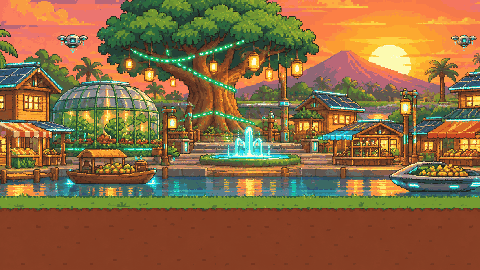
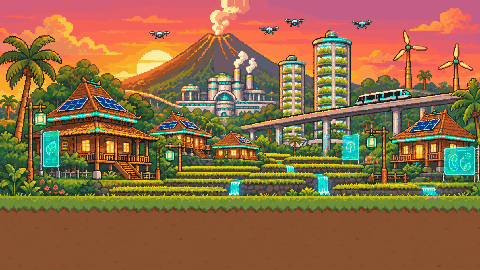
Dusk backdrop: Ardian's redraw of the same village at dusk, aligned to the day image
- docs/art-source/bg-dusk.png replaced by the new 1672x941 image (the day village turned into dusk).
- The AI drew it about 3% smaller; tools/pixelize/align.py stretches the whole picture once to
  match the day image (nothing cropped or pasted): houses, towers, terraces and the grass line line
  up (first soil row 105 / 209 in both grids). Converted on the same grids as day / night.
- Lanterns, holograms, waterfalls and smoke now stay visible at dusk (same village); the dusk
  sky colour and the sunset glow follow the new image; the day sun sinks towards the setting sun.
- ?time= also takes a village hour (e.g. 16.5) in dev builds, to check the fades.

diff --git a/web/src/art/backdrop.tsx b/web/src/art/backdrop.tsx
@@ -1,6 +1,6 @@
 // Garden backdrop: the Solarpunk village of Tandur from three AI images (ChatGPT,
 // made at Ardian's request, see docs/ASSETS.md), pixelized to 240x135 with
-// tools/pixelize. Day, dusk (the market square at sunset) and night are stacked and
+// tools/pixelize. Day, dusk and night (the same village, aligned) are stacked and
 // cross-faded from the village clock (dawn gets a warm tint); the living sky
 // (sun, clouds, birds, stars, meteors, a rare UFO, fireflies) is in sky.tsx. Small code-drawn
 // animations sit on top: passing drones, blinking drone LEDs, lanterns and
@@ -53,9 +53,13 @@ export const TIME_LOCK: Record<string, number> = {
   night: (23 - 7) / 24,
 };
 
+/** ?time=day / dusk / night, or a village hour such as ?time=16.5 (mid fade from day to dusk). */
 export function lockedFraction(search: string): number | null {
   const t = new URLSearchParams(search).get('time');
-  return t && t in TIME_LOCK ? TIME_LOCK[t] : null;
+  if (!t) return null;
+  if (t in TIME_LOCK) return TIME_LOCK[t];
+  const hour = Number(t);
+  return Number.isFinite(hour) && hour >= 0 && hour < 24 ? (((hour - 7 + 24) % 24) / 24) : null;
 }
 
 /** Absolute position of a box given in art pixels. */
@@ -116,8 +120,6 @@ export function Backdrop({ fraction, blurFill = false, hd = false }: { fraction:
     '--night': night.toFixed(3),
     '--dusk': dusk.toFixed(3),
     '--day': Math.max(0, 1 - night - dusk).toFixed(3),
-    // The village effects below sit on the day/night drawing: hidden while the dusk image shows.
-    '--village': (1 - dusk * (1 - night)).toFixed(3),
     '--tint': tint.toFixed(3),
   };
 
@@ -144,7 +146,7 @@ export function Backdrop({ fraction, blurFill = false, hd = false }: { fraction:
         <img class="bg-img bg-img-dusk" src={duskSrc} alt="" />
         <img class="bg-img bg-img-night" src={nightSrc} alt="" />
 
-        <div class="bg-fx bg-fx-village">
+        <div class="bg-fx">
           {SMOKE.map((s, i) => (
             <i key={i} class={`puff${s.small ? ' small' : ''}`} style={{ ...at(s.x, s.y, s.small ? 2 : 4, s.small ? 2 : 4), animationDelay: `${s.d}s` }} />
           ))}

diff --git a/web/src/art/sky.tsx b/web/src/art/sky.tsx
@@ -2,7 +2,7 @@
 // code as crisp pixel art and animated with CSS only (light on phones, stops with
 // prefers-reduced-motion):
 //   day   - a sun, clouds drifting by, and now and then a flock of birds;
-//   dusk  - a glow on the setting sun of the dusk image, birds flying home to the big tree;
+//   dusk  - a glow on the setting sun of the dusk image, birds flying home to the trees;
 //   night - twinkling stars, a meteor now and then, a very rare UFO, fireflies over the fields.
 // Each layer fades with the village clock (--day / --dusk / --night set by the backdrop).
 
@@ -73,7 +73,15 @@ export function Sky() {
     <div class="sky" aria-hidden="true">
       {/* Day */}
       <div class="sky-day">
-        <span class="sky-sun" style={at(137, 9, 13, 13)}>
+        {/* The sun sinks towards the setting sun of the dusk image as dusk comes (--dusk 0..1). */}
+        <span
+          class="sky-sun"
+          style={{
+            ...at(137, 9, 13, 13),
+            left: `calc(${(137 / ART_W) * 100}% - ${(69 / ART_W) * 100}% * var(--dusk))`,
+            top: `calc(${(9 / ART_H) * 100}% + ${(26 / ART_H) * 100}% * var(--dusk))`,
+          }}
+        >
           <Pixels rows={SUN} palette={SUN_PAL} scale={1} />
         </span>
         <span class="cloud c1" style={at(0, 6, 18, 5)}>
@@ -90,9 +98,9 @@ export function Sky() {
         </div>
       </div>
 
-      {/* Dusk: glow on the image's setting sun, birds flying home to the big tree */}
+      {/* Dusk: glow on the image's setting sun, birds flying home */}
       <div class="sky-dusk">
-        <span class="sun-glow" style={at(180, 15, 29, 29)} />
+        <span class="sun-glow" style={at(62, 22, 26, 26)} />
         <div class="flock-lane" style={at(0, 22, 30, 8)}>
           <Flock cls="home-flock" n={5} pal="#3B1F2B" />
         </div>

diff --git a/web/src/styles.css b/web/src/styles.css
@@ -598,7 +598,6 @@ button {
   --night: 0;
   --dusk: 0;
   --day: 1;
-  --village: 1;
   --tint: 0;
   background: #27c5fd; /* top row of the day image, fills the sky above it on phones */
   overflow: hidden;
@@ -610,7 +609,7 @@ button {
 }
 
 .bg-fill-dusk {
-  background: #ba7b4e; /* top row of the dusk image */
+  background: #ce617c; /* top row of the dusk image */
   opacity: var(--dusk);
   transition: opacity 1s linear;
 }
@@ -658,12 +657,6 @@ button {
 
 .bg-img-dusk {
   opacity: var(--dusk);
-  transition: opacity 1s linear;
-}
-
-/* Lanterns, holograms, waterfalls and smoke belong to the day/night drawing. */
-.bg-fx-village {
-  opacity: var(--village);
   transition: opacity 1s linear;
 }
 

diff --git a/tools/pixelize/align.py b/tools/pixelize/align.py
@@ -1,0 +1,75 @@
+# Aligns an AI redraw of a backdrop (e.g. the dusk village) to the reference image (the day
+# village) with one small stretch of the whole picture: nothing is cropped or pasted.
+# The AI draws a redraw a few percent smaller or shifted; the stretch is found by comparing the
+# edges of houses / towers / terraces in both images (see docs/ASSETS.md for the numbers used).
+#
+# Usage: python3 -I tools/pixelize/align.py SRC.png OUT.png AX BX AY BY [REFERENCE.png]
+#   Output pixel (x, y) takes SRC at (AX * x + BX, AY * y + BY), bilinear, clamped at the edges;
+#   the output has SRC's size. With REFERENCE.png it prints the remaining offset (dx, dy in px)
+#   of houses and terraces, left / middle / right (0, 0 = aligned).
+# Dusk backdrop (2026-11-07): AX 0.9783 BX 8.5 AY 0.9852 BY -15.1, reference bg-day-ai.png.
+# Standard library only.
+import sys, os
+sys.path.insert(0, os.path.dirname(os.path.abspath(__file__)))
+from png import read_png, write_png
+
+
+def stretch(src, w, h, ax, bx, ay, by):
+    out = []
+    for y in range(h):
+        sy = ay * y + by
+        y0 = int(sy // 1)
+        fy = sy - y0
+        ya, yb = max(0, min(h - 1, y0)), max(0, min(h - 1, y0 + 1))
+        row = []
+        for x in range(w):
+            sx = ax * x + bx
+            x0 = int(sx // 1)
+            fx = sx - x0
+            xa, xb = max(0, min(w - 1, x0)), max(0, min(w - 1, x0 + 1))
+            p00, p01, p10, p11 = src[ya][xa], src[ya][xb], src[yb][xa], src[yb][xb]
+            row.append(tuple(int((p00[i] * (1 - fx) + p01[i] * fx) * (1 - fy) + (p10[i] * (1 - fx) + p11[i] * fx) * fy) for i in range(3)) + (255,))
+        out.append(row)
+    return out
+
+
+def edges(px, w, h):
+    lum = [[0.3 * px[y][x][0] + 0.59 * px[y][x][1] + 0.11 * px[y][x][2] for x in range(0, w, 2)] for y in range(0, h, 2)]
+    return [[abs(lum[y][x + 1] - lum[y][x]) + abs(lum[y + 1][x] - lum[y][x]) for x in range(len(lum[0]) - 1)] for y in range(len(lum) - 1)]
+
+
+def offset(ea, eb, y0, y1, x0, x1):
+    h, w = len(ea), len(ea[0])
+    best = None
+    for dy in range(-6, 7):
+        for dx in range(-6, 7):
+            s = 0
+            for y in range(y0, y1, 2):
+                if not 0 <= y + dy < h:
+                    continue
+                ra, rb = ea[y], eb[y + dy]
+                for x in range(x0, x1, 2):
+                    if 0 <= x + dx < w:
+                        s += ra[x] * rb[x + dx]
+            if best is None or s > best[0]:
+                best = (s, dx * 2, dy * 2)
+    return best[1:]
+
+
+def main():
+    src_path, out_path = sys.argv[1], sys.argv[2]
+    ax, bx, ay, by = (float(v) for v in sys.argv[3:7])
+    w, h, src = read_png(src_path)
+    out = stretch(src, w, h, ax, bx, ay, by)
+    write_png(out_path, w, h, out)
+    print(f'{out_path}: {w}x{h}, x_src = {ax} x + {bx}, y_src = {ay} y + {by}')
+    if len(sys.argv) > 7:
+        rw, rh, ref = read_png(sys.argv[7])
+        assert (rw, rh) == (w, h), 'reference must have the same size'
+        ea, eb = edges(ref, w, h), edges(out, w, h)
+        cols = [(20, 280), (280, 560), (560, 820)]
+        for name, (y0, y1) in {'houses': (150, 300), 'terraces': (250, 330)}.items():
+            print(name, 'offset left / middle / right (dx, dy px):', [offset(ea, eb, y0, y1, x0, x1) for x0, x1 in cols])
+
+
+main()

diff --git a/docs/ASSETS.md b/docs/ASSETS.md
@@ -81,7 +81,7 @@ No CC0 mango, rambutan, or durian tree sprites were found. These will be recolor
 | **Village Shop stall with guard robot**: `web/src/art/shop-sprite.ts` (152x115 stall, robot and robot-eye layers) | **Made with ChatGPT (AI image generator) at Ardian's request** (source: `docs/art-source/shop-ai.png`, 1536x1024, white background). Converted by Claude Code on 2026-11-05 with `tools/pixelize/sheet.py` (8 px cells, 62-color palette snapped to the GDD colors) and `make-market-shop.py` (robot cut into its own layer with foliage filled in behind; the tomato, eggplant and carrot seed packets redrawn as rambutan, mango and durian in code). | AI-generated, used in NEARvest by its creator |
 | `web/src/art/shop.tsx` (robot float and eye blink) | Code only | Part of this repo (MIT) |
 | **Garden backdrop (village of Tandur, day and night)**: `web/public/assets/bg/bg-day.png`, `bg-night.png` (240x135 each) | **Made with ChatGPT (AI image generator) at Ardian's request** (sources: `docs/art-source/bg-day-ai.png`, `bg-night-ai.png`, 1672x941, same composition). Converted by Claude Code on 2026-11-05 with `tools/pixelize` (`--keep-bg --colors 64`): dominant color per 6.97 px cell, a 64-color median-cut palette with the closest colors snapped exactly to the GDD colors (leaf, soil, mint, cyan, gold). | AI-generated, used in NEARvest by its creator |
-| **Dusk backdrop**: `docs/art-source/bg-dusk.png` (1774x887) -> `web/public/assets/bg/bg-dusk.png` (240x135) and `bg-dusk-hd.png` (480x270) | **Made with ChatGPT (AI image generator) at Ardian's request** (2026-11-07): Tandur's market square at sunset. Cropped to 16:9 (1440x810 from x167 y77 so the grass line matches the day backdrop), converted with `tools/pixelize/pixelize.py ... 135/270 --keep-bg --colors 64/96`; the soil rows (from row 102 / 208) are the day backdrop's soil with a warm dusk tint, so the plots sit on the same ground. | AI-generated, used in NEARvest by its creator |
+| **Dusk backdrop**: `docs/art-source/bg-dusk.png` (1672x941, replaced 2026-11-07 evening) -> `web/public/assets/bg/bg-dusk.png` (240x135) and `bg-dusk-hd.png` (480x270) | **Made with ChatGPT (AI image generator) at Ardian's request** (2026-11-07): the same village as the day backdrop, turned into dusk. The AI drew it about 3% smaller, so it is aligned to the day image by a small stretch of the whole picture (`tools/pixelize/align.py`: x_src = 0.9783 x + 8.5, y_src = 0.9852 y - 15.1; nothing cropped or pasted), then converted on the same grids as day / night (`tools/pixelize/pixelize.py ... 135 --keep-bg --colors 64` and `270 --colors 96`). Houses, towers, terraces and the grass line match the day image (first soil row 105 / 209 in both). | AI-generated, used in NEARvest by its creator |
 | **Garden backdrop, HD for laptops**: `web/public/assets/bg/bg-day-hd.png`, `bg-night-hd.png` (480x270 each) | Same ChatGPT images (made at Ardian's request, `docs/art-source/bg-day-ai.png`, `bg-night-ai.png`), converted by Claude Code on 2026-11-05 with `tools/pixelize` (`--keep-bg --colors 96`, 3.49 px cells, closest colors snapped to the GDD colors). Used only by the laptop immersive mode. | AI-generated, used in NEARvest by its creator |
 | `web/src/art/backdrop.tsx` (day / dusk / night cross-fade, dawn tint, sun, clouds, birds, stars, meteors, a rare UFO, fireflies, passing drones, drone LEDs, lantern and hologram glow, waterfall shimmer, volcano smoke) | Animation overlays: original pixel art drawn in code | Part of this repo (MIT). The earlier code-drawn village backdrop was replaced on 2026-11-05 (see git history). |
 | **Market and Shop backdrops (floating market on the canal, village square with the banyan tree)**: `web/public/assets/bg/bg-market.png`, `bg-shop.png` (240x120 each) | **Made with ChatGPT (AI image generator) at Ardian's request** (sources: `docs/art-source/bg-market-ai.png`, `bg-shop-ai.png`, 1774x887). Converted by Claude Code on 2026-11-05 with `tools/pixelize` (`--keep-bg --colors 64`, 7.39 px cells, closest colors snapped to the GDD colors). | AI-generated, used in NEARvest by its creator |
